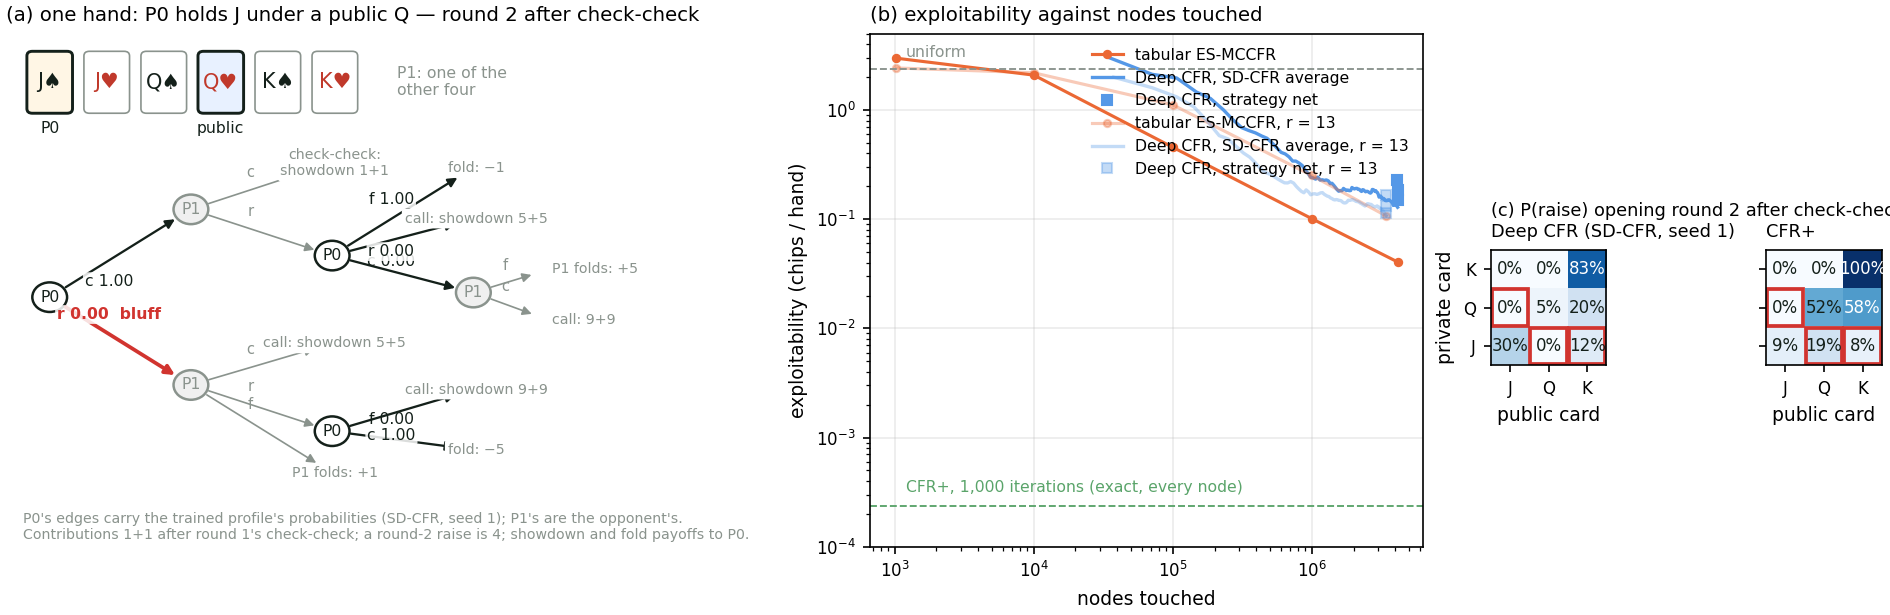
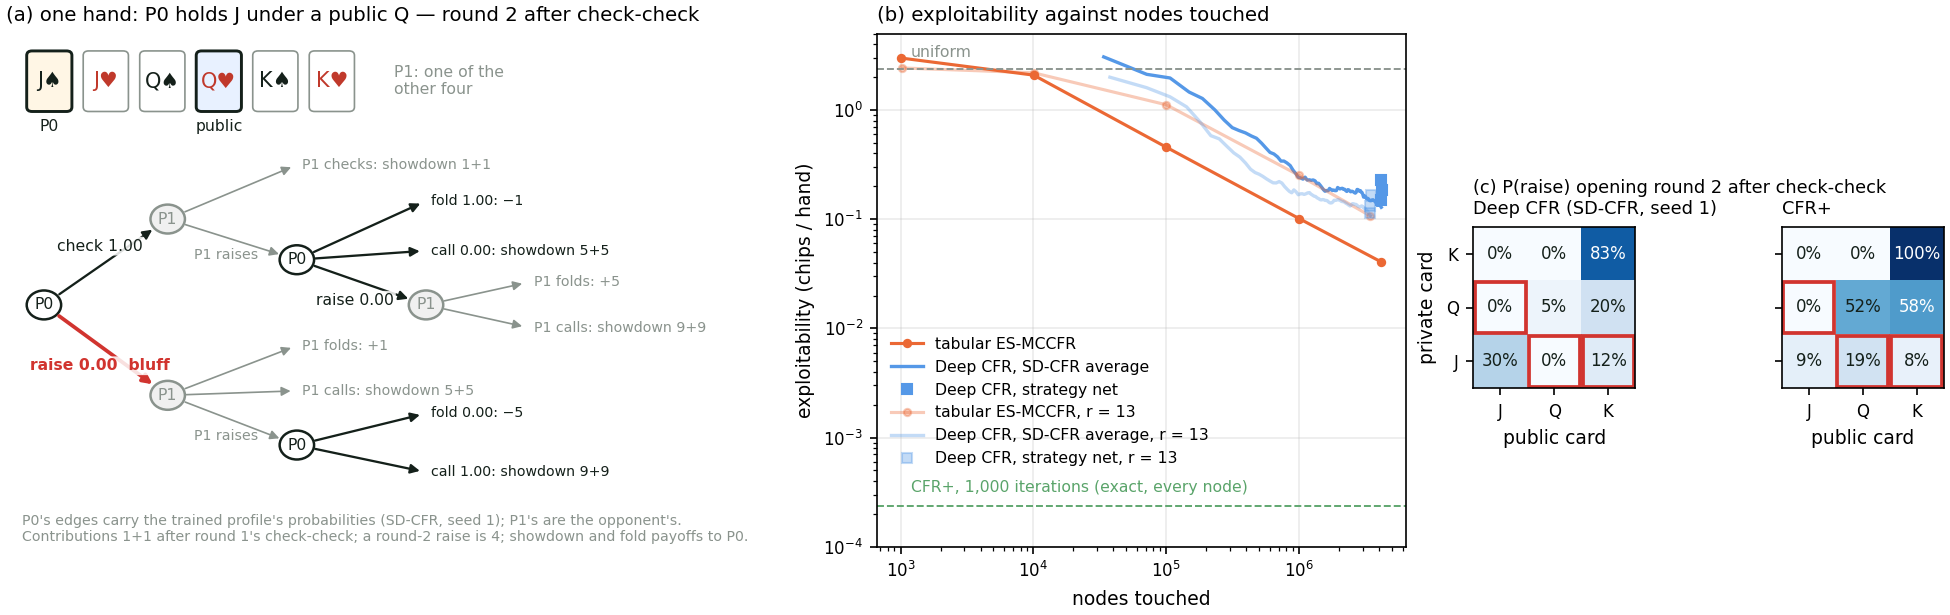
book(leduc): Figure 10.14 laid out without overlaps; the arms table inside the margin — `scripts/demos/leduc_figure.py`: panel (a)'s round-2 tree re-laid so no label touches another — P0's probabilities now ride the terminal labels ("fold 1.00: −1", "call 0.00: showdown 5+5") instead of three mid-ed
Claude-Session: https://claude.ai/code/session_01HwJKkNG1XFitCQXoP6uD6w

diff --git a/scripts/demos/leduc_figure.py b/scripts/demos/leduc_figure.py
@@ -63,13 +63,13 @@ def rows(name):
 
 plt.rcParams.update({"font.family": "DejaVu Sans", "font.size": 9, "axes.titlesize": 9.5,
                      "axes.labelsize": 9, "legend.fontsize": 7.5, "xtick.labelsize": 8, "ytick.labelsize": 8})
-fig = plt.figure(figsize=(12.6, 4.1), constrained_layout=True)
-gs = gridspec.GridSpec(1, 3, figure=fig, width_ratios=[1.25, 1.2, 1.0])
+fig = plt.figure(figsize=(13.0, 4.1), constrained_layout=True)
+gs = gridspec.GridSpec(1, 3, figure=fig, width_ratios=[1.3, 1.1, 1.12])
 
 # ── (a) the hand and round 2's tree ──
 net = load_table(table_name)
 ax = fig.add_subplot(gs[0, 0])
-ax.set_xlim(0, 10.6); ax.set_ylim(-1.1, 10); ax.axis("off")
+ax.set_xlim(0, 11.6); ax.set_ylim(-1.35, 10); ax.axis("off")
 ax.set_title("(a) one hand: P0 holds J under a public Q — round 2 after check-check", loc="left")
 cards = [("J", "♠"), ("J", "♥"), ("Q", "♠"), ("Q", "♥"), ("K", "♠"), ("K", "♥")]
 for i, (rk, su) in enumerate(cards):
@@ -86,46 +86,54 @@ ax.text(7.2, 8.95, "P1: one of the\nother four", ha="left", va="center", fontsiz
 # P0's sets in this round: (closing cc, state s, private J, public Q)
 def p0(s):
     return net[info_index(1, 0, STATES[s], 0, 1)]
-# nodes: name -> (x, y, who)
-nodes = {"": (0.8, 4.3, 0), "c": (3.4, 6.2, 1), "r": (3.4, 2.4, 1), "cr": (6.0, 5.2, 0),
-         "rr": (6.0, 1.4, 0), "crr": (8.6, 4.4, 1),
-         "cc": (6.0, 7.2, None), "rc": (6.0, 3.3, None), "crc": (8.6, 6.0, None),
-         "rrc": (8.6, 2.3, None), "fold-r": (6.0, 0.5, None), "fold-cr": (8.6, 7.1, None),
-         "fold-rr": (8.6, 1.0, None), "fold-crr": (10.0, 4.9, None), "crrc": (10.0, 3.8, None)}
-labels = {"cc": "check-check:\nshowdown 1+1", "rc": "call: showdown 5+5", "crc": "call: showdown 5+5",
-          "rrc": "call: showdown 9+9", "crrc": "call: 9+9", "fold-r": "P1 folds: +1", "fold-cr": "fold: −1",
-          "fold-rr": "fold: −5", "fold-crr": "P1 folds: +5"}
+# decision nodes: name -> (x, y, who); terminals: name -> (x, y) of the label's left edge
+nodes = {"": (0.7, 4.0, 0), "c": (3.0, 5.9, 1), "r": (3.0, 2.0, 1), "cr": (5.4, 5.0, 0),
+         "rr": (5.4, 0.9, 0), "crr": (7.8, 4.0, 1)}
+terms = {"cc": (5.4, 7.1), "fold-cr": (7.8, 6.3), "crc": (7.8, 5.2), "fold-crr": (9.7, 4.5),
+         "crrc": (9.7, 3.5), "fold-r": (5.4, 3.1), "rc": (5.4, 2.1), "fold-rr": (7.8, 1.6), "rrc": (7.8, 0.3)}
+# the opponent's terminals say what P1 did; P0's carry the trained profile's probability
+ACT = {"f": 0, "c": 1, "r": 2}
+NAME = {"f": "fold", "c": "call", "r": "raise"}
+outcome = {"cc": "P1 checks: showdown 1+1", "fold-cr": "−1", "crc": "showdown 5+5", "fold-crr": "P1 folds: +5",
+           "crrc": "P1 calls: showdown 9+9", "fold-r": "P1 folds: +1", "rc": "P1 calls: showdown 5+5",
+           "fold-rr": "−5", "rrc": "showdown 9+9"}
+# (from, to, action, who moves); a decision-node destination gets a mid-edge label, a terminal gets its label at the tip
 edges = [("", "c", "c", 0), ("", "r", "r", 0), ("c", "cc", "c", 1), ("c", "cr", "r", 1),
          ("r", "fold-r", "f", 1), ("r", "rc", "c", 1), ("r", "rr", "r", 1),
          ("cr", "fold-cr", "f", 0), ("cr", "crc", "c", 0), ("cr", "crr", "r", 0),
          ("rr", "fold-rr", "f", 0), ("rr", "rrc", "c", 0),
          ("crr", "fold-crr", "f", 1), ("crr", "crrc", "c", 1)]
-ACT = {"f": 0, "c": 1, "r": 2}
 for a, b, act, who in edges:
-    (x0, y0, _), (x1, y1, _) = nodes[a], nodes[b]
+    x0, y0, _ = nodes[a]
+    terminal = b in terms
+    x1, y1 = terms[b] if terminal else nodes[b][:2]
     bluff = (a == "" and act == "r")
     col = BLUFF if bluff else (INK if who == 0 else GREY)
     ax.annotate("", xy=(x1, y1), xytext=(x0, y0),
                 arrowprops=dict(arrowstyle="-|>", color=col, lw=1.8 if bluff else (1.1 if who == 0 else 0.8),
-                                shrinkA=9, shrinkB=9))
-    xm, ym = x0 + 0.42 * (x1 - x0), y0 + 0.42 * (y1 - y0)
-    if who == 0:
-        p = p0(a)[ACT[act]]
-        txt = f"{act} {p:.2f}" + ("  bluff" if bluff else "")
-        dy, va = {"f": (0.26, "bottom"), "c": (-0.3, "top"), "r": (0.26, "bottom")}[act][0], {"f": "bottom", "c": "top", "r": "bottom"}[act]
-        ax.text(xm, ym + dy, txt, ha="center", va=va, fontsize=7.5, color=col,
-                fontweight="bold" if bluff else "normal",
-                bbox=dict(boxstyle="round,pad=0.12", fc="white", ec="none", alpha=0.85))
+                                shrinkA=9, shrinkB=3 if terminal else 9))
+    if terminal:
+        if who == 0:
+            txt = f"{NAME[act]} {p0(a)[ACT[act]]:.2f}: {outcome[b]}"
+        else:
+            txt = outcome[b]
+        ax.text(x1 + 0.1, y1, txt, ha="left", va="center", fontsize=6.8, color=INK if who == 0 else GREY,
+                bbox=dict(boxstyle="round,pad=0.15", fc="white", ec="none"))
     else:
-        ax.text(xm, ym + 0.22, act, ha="center", va="bottom", fontsize=7, color=GREY)
+        xm, ym = x0 + 0.45 * (x1 - x0), y0 + 0.45 * (y1 - y0)
+        if who == 0:
+            p = p0(a)[ACT[act]]
+            txt = f"{'check' if (a == '' and act == 'c') else NAME[act]} {p:.2f}" + ("  bluff" if bluff else "")
+            above = (act == "c")          # the root's check (no bet to call yet) rides above its edge, every raise below
+            ax.text(xm, ym + (0.28 if above else -0.28), txt, ha="center", va="bottom" if above else "top",
+                    fontsize=7.5, color=col, fontweight="bold" if bluff else "normal",
+                    bbox=dict(boxstyle="round,pad=0.12", fc="white", ec="none", alpha=0.85))
+        else:
+            ax.text(xm, ym - 0.24, "P1 raises", ha="center", va="top", fontsize=6.8, color=GREY)
 for name, (x, y, who) in nodes.items():
-    if who is None:
-        ax.text(x + 0.05, y, labels[name], ha="left" if x > 9 else "center", va="center", fontsize=6.8, color=GREY,
-                bbox=dict(boxstyle="round,pad=0.2", fc="white", ec="none"))
-    else:
-        ax.add_patch(plt.Circle((x, y), 0.32, fc="white" if who == 0 else "#f0f0f0", ec=INK if who == 0 else GREY, lw=1.2))
-        ax.text(x, y, f"P{who}", ha="center", va="center", fontsize=7.5, color=INK if who == 0 else GREY)
-ax.text(0.3, -1.0, "P0's edges carry the trained profile's probabilities (SD-CFR, seed 1); P1's are the opponent's.\nContributions 1+1 after round 1's check-check; a round-2 raise is 4; showdown and fold payoffs to P0.",
+    ax.add_patch(plt.Circle((x, y), 0.32, fc="white" if who == 0 else "#f0f0f0", ec=INK if who == 0 else GREY, lw=1.2))
+    ax.text(x, y, f"P{who}", ha="center", va="center", fontsize=7.5, color=INK if who == 0 else GREY)
+ax.text(0.3, -1.3, "P0's edges carry the trained profile's probabilities (SD-CFR, seed 1); P1's are the opponent's.\nContributions 1+1 after round 1's check-check; a round-2 raise is 4; showdown and fold payoffs to P0.",
         fontsize=6.8, color=GREY, va="bottom")
 
 # ── (b) exploitability against nodes touched ──
@@ -176,10 +184,10 @@ ax.axhline(2.38e-4, ls="--", color=EQ, lw=0.9); ax.text(1.2e3, 3.0e-4, "CFR+, 1,
 ax.set_xscale("log"); ax.set_yscale("log")
 ax.set_xlabel("nodes touched"); ax.set_ylabel("exploitability (chips / hand)")
 ax.set_ylim(1e-4, 5); ax.grid(True, which="major", alpha=0.25)
-ax.legend(loc="upper right", frameon=False)
+ax.legend(loc="lower left", bbox_to_anchor=(0.0, 0.13), frameon=False)
 
 # ── (c) raise probability at round 2's first decision after check-check ──
-sub = gs[0, 2].subgridspec(1, 2, wspace=0.08)
+sub = gs[0, 2].subgridspec(1, 2, wspace=0.1)
 cfr = load_txt_table("r3_cfrplus.txt")
 def raise_grid(tab):
     g = np.full((R, R), np.nan)

diff --git a/blueprint/src/content.tex b/blueprint/src/content.tex
@@ -17449,9 +17449,11 @@ cells ringed.}
 
 \paragraph{Every arm against the best response.} Exploitability in chips per hand (ante
 one; a thousandth of a chip is a milli-ante per game, the Leduc papers' unit) and
-head-to-head against CFR+ averaged over the two seats, three seeds for the learned rows;
-the last column is the bluff, the raise frequency opening round 2 with a jack under a
-queen:
+head-to-head against CFR+ averaged over the two seats. The scripted honest arm raises a
+pair or a king and folds a jack to a bet; the price-of-honesty arm is CFR+ with its
+worst-hand raises moved to call; the two Deep CFR rows and the sampled table are at the
+same 4.1M nodes, three seeds each. The last column is the bluff, the raise frequency
+opening round 2 with a jack under a queen:
 
 \begin{center}
 \small
@@ -17459,13 +17461,13 @@ queen:
 \hline
 arm & exploitability & vs CFR+ & bluff \\
 \hline
-uniform random                                   & 2.374 & $-0.707$ & 50\% \\
-scripted honest: raise a pair or a king, fold a jack to a bet & 1.050 & $-0.123$ & 0\% \\
-CFR+ with its bluffs moved to call --- the price of honesty & 0.186 & $-0.012$ & 0\% \\
-Deep CFR, strategy network, 4.1M nodes          & 0.229 / 0.185 / 0.152 & $-0.055$ / $-0.039$ / $-0.050$ & \\
-Deep CFR, SD-CFR average, 4.1M nodes            & $\mathbf{0.127}$ / $\mathbf{0.150}$ / $\mathbf{0.109}$ & $-0.022$ / $-0.031$ / $-0.020$ & 0\% \\
-tabular ES-MCCFR, the same 4.1M nodes            & 0.038 / 0.043 / 0.041 & & \\
-CFR+, a thousand iterations                     & 0.00024 & 0 & 19.5\% \\
+uniform random              & 2.374 & $-0.707$ & 50\% \\
+scripted honest             & 1.050 & $-0.123$ & 0\% \\
+CFR+, bluffs moved to call  & 0.186 & $-0.012$ & 0\% \\
+Deep CFR, strategy network  & 0.229 / 0.185 / 0.152 & $-0.055$ / $-0.039$ / $-0.050$ & \\
+Deep CFR, SD-CFR average    & $\mathbf{0.127}$ / $\mathbf{0.150}$ / $\mathbf{0.109}$ & $-0.022$ / $-0.031$ / $-0.020$ & 0\% \\
+tabular ES-MCCFR            & 0.038 / 0.043 / 0.041 & & \\
+CFR+, a thousand iterations & 0.00024 & 0 & 19.5\% \\
 \hline
 \end{tabular}
 \end{center}
